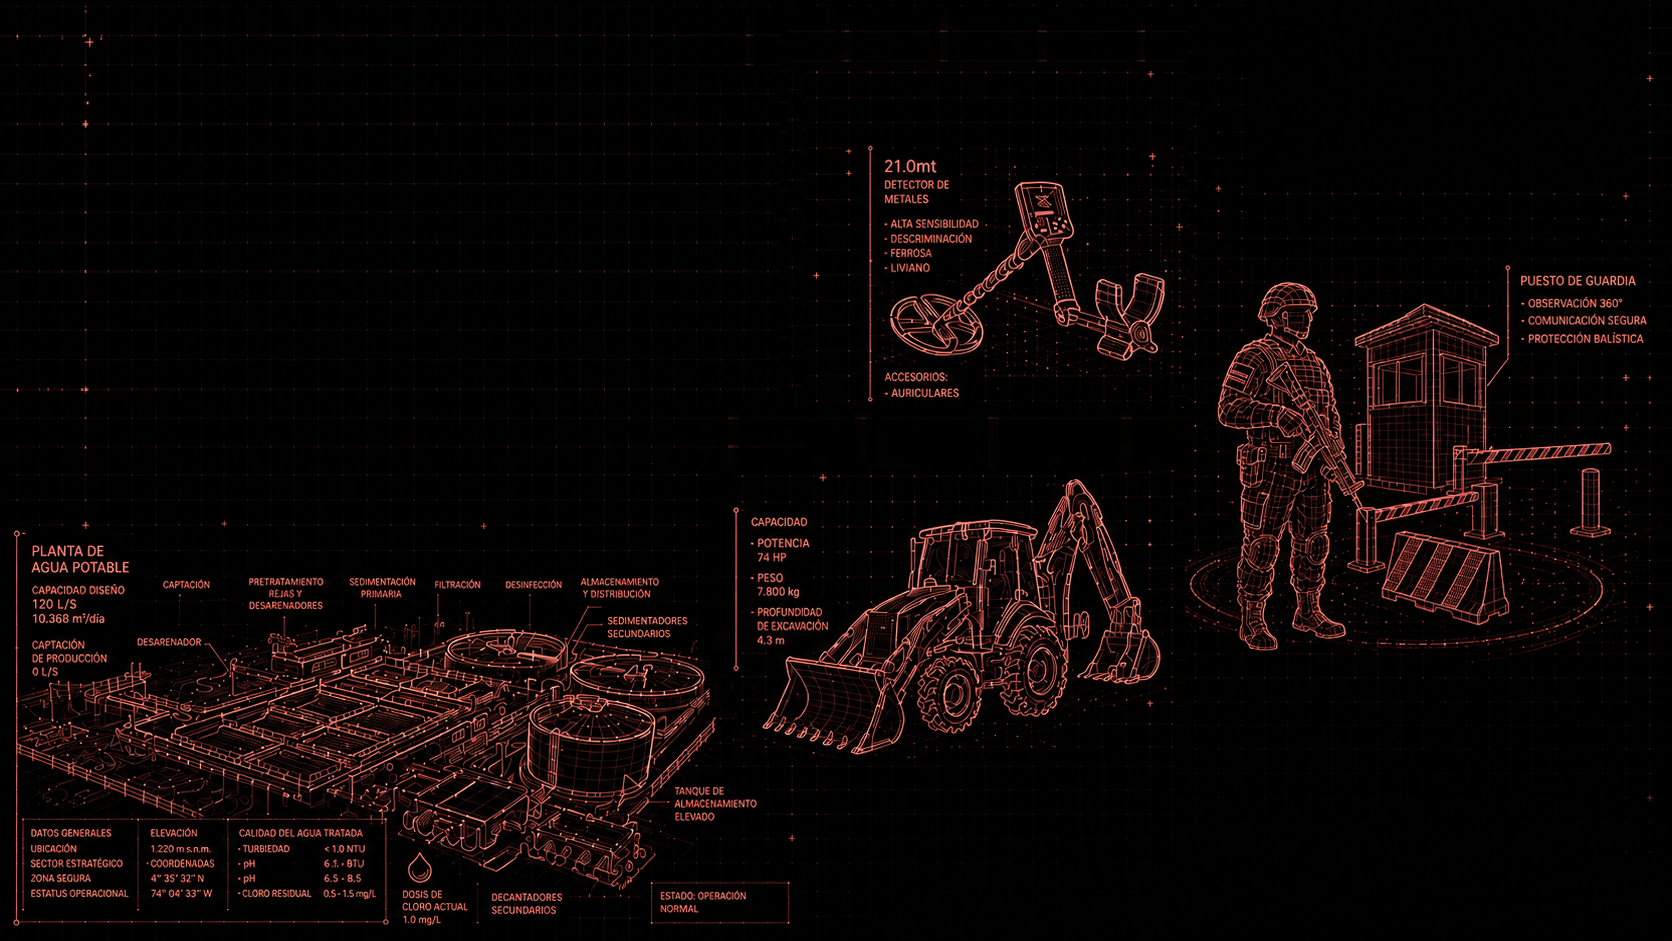
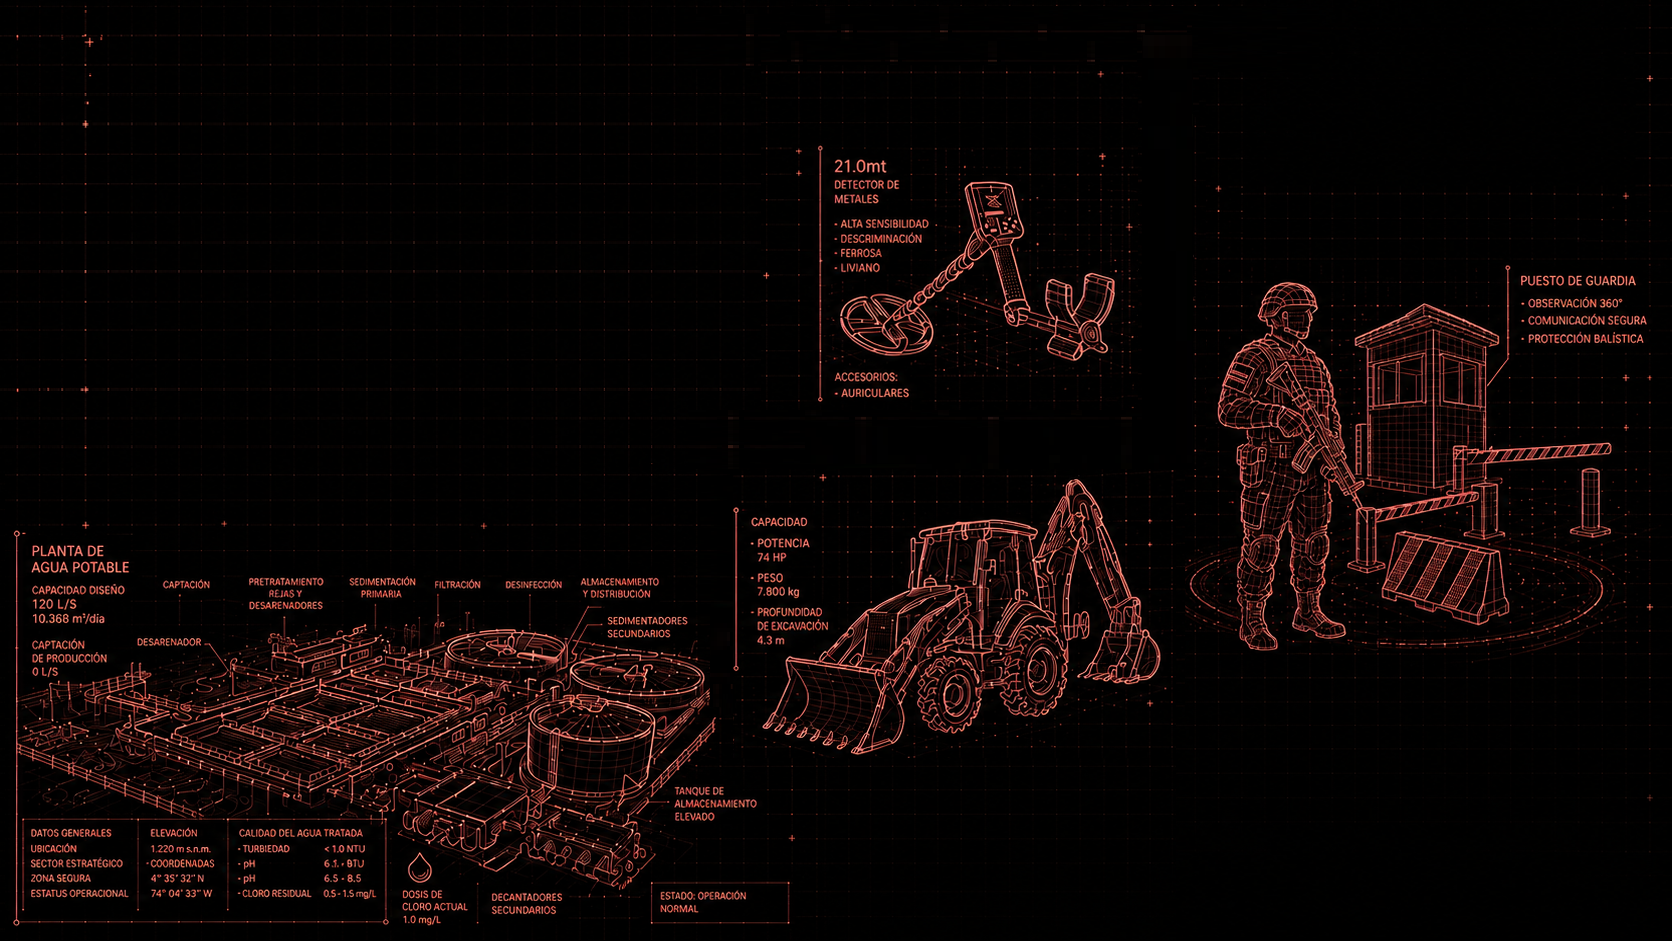
SE AJUSTO NUEVAMENE LOGIN DEL SISTEMA........

Changed region(s): [[0.4976, 0.1541, 0.7153, 0.4315]]

diff --git a/src/app/pages/pie-pagina/pie-pagina.component.html b/src/app/pages/pie-pagina/pie-pagina.component.html
@@ -25,7 +25,11 @@
     aria-label="Todos los derechos reservados, Ejército Nacional, CAOCC, versión 1.0.0.0."
   >
     <defs>
-      <path id="arco-legal-pie" d="M -182 223 Q 356 433 894 223"></path>
+      <!-- Arco mas pronunciado: centro del arco en y=336 (bajado ~0,5 mm) y
+           extremos del texto elevados ~1 mm (dos pasos de 3 unidades) con el centro
+           intacto. Antes
+           "M -182 223 Q 356 433 894 223". -->
+      <path id="arco-legal-pie" d="M -182 209.3 Q 356 462.7 894 209.3"></path>
       <!-- El ancho (280/736 = 38 %) y el recorrido reproducen exactamente
            background-size: 38% y background-position: -48% a 148% de los escudos. -->
       <linearGradient id="brillo-legal-pie" gradientUnits="userSpaceOnUse" x1="0" y1="0" x2="280" y2="0">
@@ -34,24 +38,25 @@
         <stop offset="0.5" stop-color="#fff8dc" stop-opacity="0.95"></stop>
         <stop offset="0.72" stop-color="#fff" stop-opacity="0.12"></stop>
         <stop offset="1" stop-color="#fff" stop-opacity="0"></stop>
-        <!-- El pico central de la banda parte en x=31 y termina en x=681,
-             que son los extremos reales del texto de 650 unidades. -->
+        <!-- El pico central de la banda parte en x=34 y termina en x=678,
+             que son los extremos reales del texto de 644 unidades (antes
+             650; se recogio ~0,5 mm por cada extremo). -->
         <animateTransform
           attributeName="gradientTransform"
           type="translate"
-          from="-109 0"
-          to="541 0"
+          from="-106 0"
+          to="538 0"
           dur="5s"
           repeatCount="indefinite"></animateTransform>
       </linearGradient>
     </defs>
     <text class="legal-texto-base">
-      <textPath href="#arco-legal-pie" startOffset="50%" text-anchor="middle" textLength="650" lengthAdjust="spacing">
+      <textPath href="#arco-legal-pie" startOffset="50%" text-anchor="middle" textLength="644" lengthAdjust="spacing">
         Todos los derechos reservados  |  Ejército Nacional  |  CAOCC  |  V1.0.0.0.
       </textPath>
     </text>
     <text class="legal-texto-brillo" aria-hidden="true">
-      <textPath href="#arco-legal-pie" startOffset="50%" text-anchor="middle" textLength="650" lengthAdjust="spacing">
+      <textPath href="#arco-legal-pie" startOffset="50%" text-anchor="middle" textLength="644" lengthAdjust="spacing">
         Todos los derechos reservados  |  Ejército Nacional  |  CAOCC  |  V1.0.0.0.
       </textPath>
     </text>

diff --git a/src/app/pages/login/login.component.html b/src/app/pages/login/login.component.html
@@ -37,8 +37,12 @@
           <ellipse class="halo-nucleo" cx="448" cy="261" rx="180" ry="140" fill="url(#grad-nucleo)" />
 
           <!-- === capa 1: riel exterior === -->
+          <!-- Con hundimiento central arriba y abajo, paralelo al del riel-2
+               (300,22)-(324,46)-(572,46)-(596,22) y a la misma separacion de
+               16 unidades: las diagonales a 45 grados se corren 16 por fuera
+               (16*raiz2 = 22.63 en x) y el fondo queda en y=30 / y=447. -->
           <path class="riel riel-1"
-            d="M106 6 L790 6 Q806 6 816 16 L880 80 Q890 90 890 106 L890 371 Q890 387 880 397 L816 461 Q806 471 790 471 L106 471 Q90 471 80 461 L16 397 Q6 387 6 371 L6 106 Q6 90 16 80 L80 16 Q90 6 106 6 Z" />
+            d="M106 6 L306.63 6 L330.63 30 L565.37 30 L589.37 6 L790 6 Q806 6 816 16 L880 80 Q890 90 890 106 L890 371 Q890 387 880 397 L816 461 Q806 471 790 471 L589.37 471 L565.37 447 L330.63 447 L306.63 471 L106 471 Q90 471 80 461 L16 397 Q6 387 6 371 L6 106 Q6 90 16 80 L80 16 Q90 6 106 6 Z" />
 
           <!-- === capa 2: riel vinotinto con hombros === -->
           <path class="riel riel-2"

diff --git a/src/app/pages/recuperacion-contrasena-acceso-usuario/recuperacion-contrasena-acceso-usuario.component.html b/src/app/pages/recuperacion-contrasena-acceso-usuario/recuperacion-contrasena-acceso-usuario.component.html
@@ -24,9 +24,12 @@
             </linearGradient>
           </defs>
 
-          <!-- riel exterior -->
+          <!-- riel exterior, con hundimiento central arriba y abajo paralelo
+               al del riel-2 ((300,22)-(324,46)-(572,46)-(596,22) y su espejo
+               en y=398/374) a 16 unidades, igual que en el login: diagonales
+               corridas 16*raiz2 = 22.63 en x y fondo en y=30 / y=390. -->
           <path class="riel riel-1"
-            d="M106 6 L790 6 Q806 6 816 16 L880 80 Q890 90 890 106 L890 314 Q890 330 880 340 L816 404 Q806 414 790 414 L106 414 Q90 414 80 404 L16 340 Q6 330 6 314 L6 106 Q6 90 16 80 L80 16 Q90 6 106 6 Z" />
+            d="M106 6 L306.63 6 L330.63 30 L565.37 30 L589.37 6 L790 6 Q806 6 816 16 L880 80 Q890 90 890 106 L890 314 Q890 330 880 340 L816 404 Q806 414 790 414 L589.37 414 L565.37 390 L330.63 390 L306.63 414 L106 414 Q90 414 80 404 L16 340 Q6 330 6 314 L6 106 Q6 90 16 80 L80 16 Q90 6 106 6 Z" />
 
           <!-- riel vinotinto con hombros -->
           <path class="riel riel-2"
